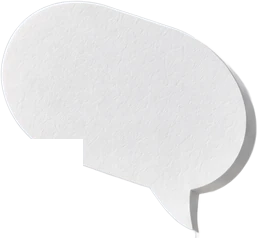
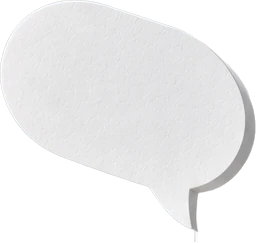
fix(onboarding): clean floating bubbles, words along them, real phone top bar
Palette A preview only.
- The bubbles are separated with a watershed split (they touched), so the
  top bubble is whole; the wall behind them is filled in again.
- The words in the air are tilted to lie along each bubble.
- The held bubble and the hand are a cut-out above the print, so the page
  keeps the real phone layout (time and back arrow at the left) and is
  hidden only where a bubble really is in front of it.

diff --git a/components/onboarding/GuideCarousel.tsx b/components/onboarding/GuideCarousel.tsx
@@ -208,7 +208,7 @@ type Quad = { tl: number[]; tr: number[]; br: number[]; bl: number[] }
 type Floater = [string, number, number, number, number, number, number, number]
 const SCENES: Record<string, { photo: string; person?: string; face: Quad; flat: string; Print: (p: { locale: AppLocale; active: boolean; step?: number }) => React.ReactElement; floaters?: Floater[]; script?: boolean }> = {
   paper: { photo: 'paper-scene-w', person: 'paper-person-w', face: FACE, flat: FLAT, Print: PrintedHome },
-  ai: { photo: 'ai-scene-bg', script: true, floaters: [['ai-bubble-big', 10.45, 8.46, 25.1, 15.5, -9, -2, 5.2], ['ai-bubble-small', 2.73, 17.51, 15.82, 9.31, 7, 2.5, 4.4]], face: {"tl": [30.27, 6.45], "tr": [81.45, 3.13], "br": [81.45, 88.74], "bl": [30.27, 81.71]}, flat: '81.4% 4.4%, 80.6% 3.2%, 79% 3.1%, 35.8% 5.8%, 35.8% 38.4%, 30.4% 38.4%, 30.4% 80.4%, 32% 81.6%, 79% 88.3%, 80.7% 87.6%, 81.4% 86%', Print: PrintedAi },
+  ai: { photo: 'ai-scene-bg', person: 'ai-front', script: true, floaters: [['ai-bubble-big', 10.55, 8.53, 25, 15.82, -8, -1.5, 5.2], ['ai-bubble-small', 2.73, 18.1, 15.14, 8.27, 6, 2, 4.4]], face: {"tl": [30.27, 6.45], "tr": [81.45, 3.13], "br": [81.45, 88.74], "bl": [30.27, 81.71]}, flat: '33.4% 6.3%, 79% 3%, 80.6% 3.2%, 81.4% 4.4%, 81.4% 86%, 80.7% 87.6%, 79% 88.3%, 32% 81.6%, 30.4% 80.4%, 30.4% 9.2%, 31.2% 7.9%, 32% 6.6%', Print: PrintedAi },
 }
 
 /**

diff --git a/components/onboarding/GuideCarousel.module.css b/components/onboarding/GuideCarousel.module.css
@@ -413,3 +413,10 @@
 .floater[data-k='0'] .floatText { rotate: -4deg; font-size: 14px; }
 .floater[data-k='1'] .floatText { rotate: 9deg; left: 14%; right: 16%; top: 20%; bottom: 42%; font-size: 11.5px; }
 .aThread { padding-left: 11%; }
+/* Round 28: the floating bubbles now lie over the page like real objects in front of the screen, so the page keeps the
+   real phone layout (time and back arrow at the left). Bubble words are tilted to lie along each bubble. */
+.aiPrint > .pStatus, .aiPrint > .aBar { margin-left: 0; }
+.aThread { padding-left: 0; }
+.floatText { left: 10%; right: 10%; top: 20%; bottom: 44%; font-size: 14px; }
+.floater[data-k='0'] .floatText { rotate: 19deg; }
+.floater[data-k='1'] .floatText { rotate: 22deg; left: 10%; right: 12%; top: 26%; bottom: 36%; font-size: 12px; }
